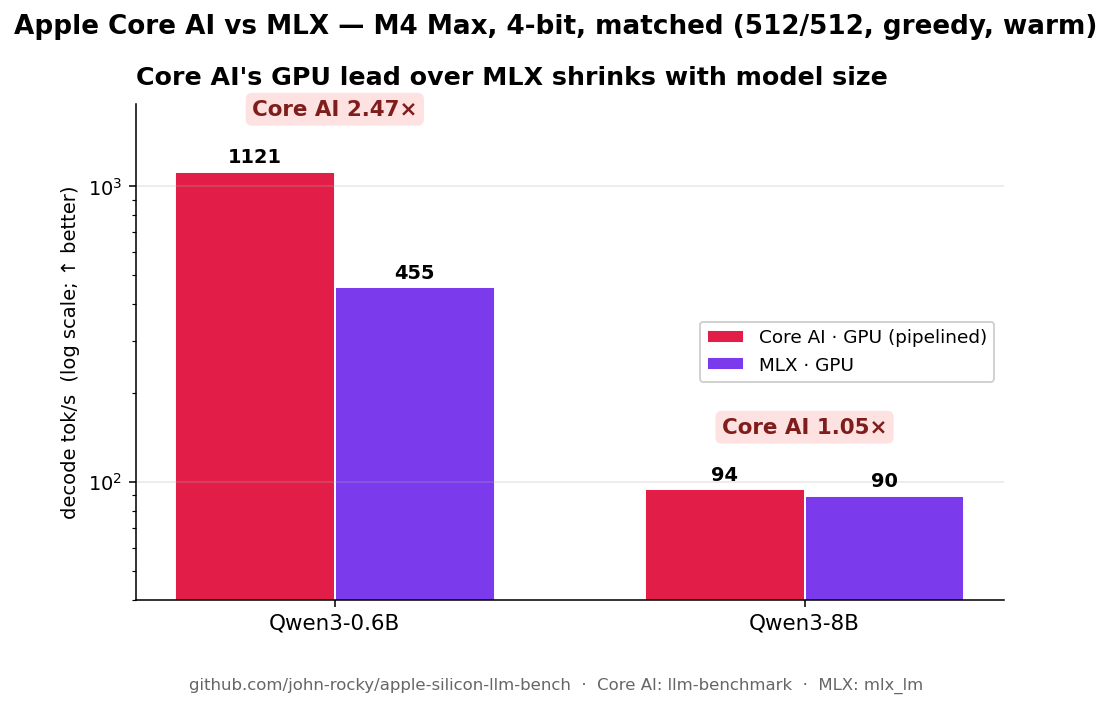
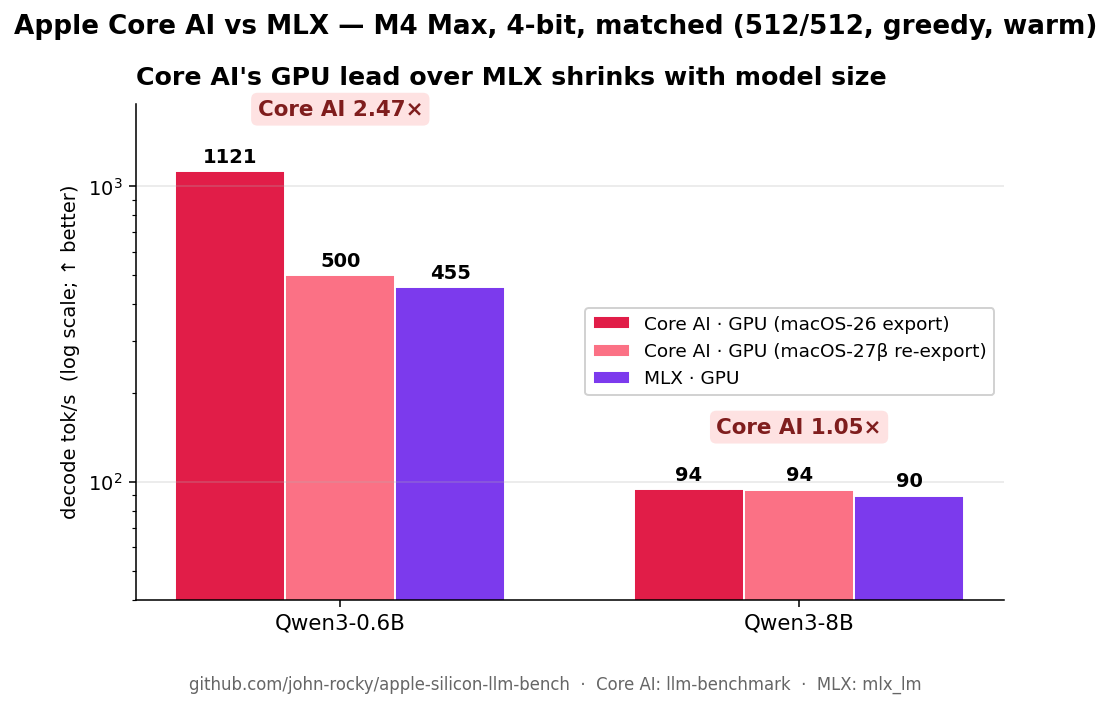
Mac official-recipe matrix: Core AI vs MLX across 6 models + export-lowering forensics
- Full M4 Max matrix (gpt-oss-20b MoE, qwen3 0.6/4/8B, gemma3-4b, mistral-7b):
  Core AI >= MLX on every dense model (+4-12% decode), MLX wins only the MoE (+28%).
- Export-lowering sensitivity: the same coreai.llm.export recipe produces a 2.2x
  slower qwen3-0.6b artifact after the macOS 26->27beta boundary (native quantized
  Linear -> constexpr dequant; same code/wheels/command). methodology/ doc + raw logs.
- README scaling section + chart updated to show both artifact generations.
- results/raw/2026-06-11-m4max-coreai-matrix/: llm-benchmark JSONs, MLX sweep log,
  ENV pins, artifact-generation A/B log.

diff --git a/scripts/coreai_mac_scaling_chart.py b/scripts/coreai_mac_scaling_chart.py
@@ -21,18 +21,22 @@ mpl.rcParams.update({
 })
 
 # Measured on M4 Max, matched (512/512/greedy/warm), 4-bit. decode tok/s.
+# 0.6B carries TWO Core AI bars: the same export recipe lowers differently across
+# the macOS 26 -> 27 beta boundary (methodology/coreai-export-lowering.md).
 SIZES = ["Qwen3-0.6B", "Qwen3-8B"]
-CORE_AI = [1120.8, 94.3]
+CORE_AI = [1120.8, 94.3]          # macOS-26-era artifacts
+CORE_AI_27B = [500.0, 94.1]       # macOS-27β re-exports (8B unchanged)
 MLX = [454.6, 89.7]
 RATIO = [c / m for c, m in zip(CORE_AI, MLX)]
 
-x = np.arange(len(SIZES)); w = 0.34
+x = np.arange(len(SIZES)); w = 0.24
 fig, ax = plt.subplots(figsize=(8.0, 4.6))
-b1 = ax.bar(x - w / 2, CORE_AI, w, label="Core AI · GPU (pipelined)", color="#e11d48", edgecolor="white")
-b2 = ax.bar(x + w / 2, MLX, w, label="MLX · GPU", color="#7c3aed", edgecolor="white")
+b1 = ax.bar(x - w, CORE_AI, w, label="Core AI · GPU (macOS-26 export)", color="#e11d48", edgecolor="white")
+b1b = ax.bar(x, CORE_AI_27B, w, label="Core AI · GPU (macOS-27β re-export)", color="#fb7185", edgecolor="white")
+b2 = ax.bar(x + w, MLX, w, label="MLX · GPU", color="#7c3aed", edgecolor="white")
 ax.set_yscale("log")
 ax.set_ylim(40, 1900)
-for bars in (b1, b2):
+for bars in (b1, b1b, b2):
     for r in bars:
         ax.text(r.get_x() + r.get_width() / 2, r.get_height() * 1.04,
                 f"{r.get_height():.0f}", ha="center", va="bottom", fontsize=10, fontweight="bold")

diff --git a/methodology/coreai-export-lowering.md b/methodology/coreai-export-lowering.md
@@ -1,0 +1,64 @@
+# Core AI export-lowering sensitivity — same recipe, 2.2× different artifact
+
+**TL;DR: `coreai.llm.export qwen3-0.6b` produced a 1,116 tok/s artifact when this
+repo's Mac numbers were first taken, and a ~500 tok/s artifact two days later — same
+command, same registry preset, same source checkout, same wheel versions, same
+machine. The only environment change in between was the macOS 26 → 27 beta upgrade.
+Benchmark the artifact you ship, pin the artifact, and don't assume a re-export
+reproduces it.**
+
+## The discrepancy
+
+Preparing the official-recipe matrix (2026-06-11) we re-exported Qwen3-0.6B and
+measured 484 tok/s (512p/1024g) where this repo had published ~1,121 (=1,150-class)
+for the same recipe. A/B on the same day, same `llm-benchmark` release binary,
+`-p 128 -g 256 -n 3`:
+
+| Artifact | Exported | Decode tok/s | Prefill tok/s |
+|---|---|---:|---:|
+| `qwen3_0_6b_dynamic` (original) | 2026-06-09 (macOS 26) | **1,116** | **17,350** |
+| `qwen3_0_6b_4bit_dynamic` (re-export) | 2026-06-11 (macOS 27 beta) | 500 | 6,667 |
+| re-export, pristine upstream `main` @0c1055f | 2026-06-11 (macOS 27 beta) | 504 | 6,676 |
+
+## What's actually different — the program, not the runtime
+
+Both artifacts run on the *same* runtime in these measurements (macOS 27 beta,
+same `llm-benchmark` binary) — so the runtime didn't regress; the exported
+**program** differs. Op-level evidence (`strings main.mlirb`):
+
+- **Fast artifact**: plain `Linear$N` composites, **zero** quantization ops in the
+  program text, yet 327 MB (4-bit-sized) → 4-bit weights consumed natively by the
+  runtime's Linear kernels (quantized-matmul path).
+- **Slow artifact**: `ParametrizedLinear$N` composites + 141×
+  `constexpr_blockwise_shift_scale` ops → explicit dequantize-then-matmul.
+
+Same 4-bit storage class (327 vs 320 MB); the **compute path** differs 2.2×.
+
+## What we ruled out (all held constant)
+
+- Source code: local checkout `b1cb71b` unchanged (reflog: single clone, no resets);
+  upstream `main` (0c1055f) differs only in `model_registry.py` (cosmetic). A pristine
+  re-clone reproduces the slow artifact.
+- Wheels: `coreai-core 1.0.0b1 / coreai-torch 0.4.0 / torch 2.9.0`, all installed
+  2026-06-09 05:45, untouched since (file mtimes).
+- Command: re-ran the original line verbatim (`uv run coreai.llm.export qwen3-0.6b
+  --platform macOS --output-name …`; `uv run` resolves to the same project venv).
+- Registry preset: `("qwen3-0.6b", …, "4bit", "float16", 8192)` in both revisions.
+
+Remaining variable: the **OS + Xcode toolchain** (macOS 26 → 27 beta between the two
+exports). The export's optimize/serialize stage runs inside `coreai-core`, which links
+the OS Core AI framework — consistent with the lowering decision living OS-side.
+We can no longer boot the macOS-26 stack to triple-confirm, so this is
+elimination-based, not bisected.
+
+## Consequences for benchmarking (and for shipping)
+
+1. **An `.aimodel` is a build artifact, not a pure function of the recipe.** Treat it
+   like a compiled binary: version-stamp it, keep it, benchmark exactly what ships.
+2. Numbers in this repo now carry the artifact date + OS in
+   [`results/raw/2026-06-11-m4max-coreai-matrix/ENV.md`](../results/raw/2026-06-11-m4max-coreai-matrix/ENV.md).
+3. The effect is size-dependent: at 8B both artifact generations measure ~94 tok/s
+   (bandwidth-bound); at 0.6B the lowering dominates (2.2×). Small-model numbers are
+   the canary.
+4. If you have a macOS-26-era artifact, **keep it** — as of the 27 beta we know no
+   recipe flag that re-produces the native-quantized lowering.

diff --git a/README.md b/README.md
@@ -34,10 +34,34 @@ A neutral, reproducible benchmark for running local LLMs (and, in time, ASR / TT
 
 | Model (4-bit) | Core AI GPU | MLX | Core AI lead |
 |---|---:|---:|---:|
-| Qwen3-0.6B | 1,121 | 455 | **2.47×** |
+| Qwen3-0.6B (macOS-26 export) | 1,121 | 455 | **2.47×** |
+| Qwen3-0.6B (macOS-27β re-export) | ~500 | 455 | **1.1×** |
 | Qwen3-8B | 94 | 90 | **1.05×** |
 
-Core AI's pipelined-GPU lead is large on **tiny** models — where its async-dispatch / overlap dominates — but **converges to a near-tie at a realistic 8B**, where both runtimes become memory-bandwidth-bound. So "Core AI is much faster" is a small-model effect; at usable sizes it's roughly MLX-equal (here, +5%). _(Matched: 512-token prompt, 512 gen, greedy, warm. Core AI via Apple's `llm-benchmark`; MLX via `mlx_lm`.)_
+Core AI's pipelined-GPU lead is large on **tiny** models — where its async-dispatch / overlap dominates — but **converges to a near-tie at a realistic 8B**, where both runtimes become memory-bandwidth-bound. _(Matched: 512-token prompt, 512 gen, greedy, warm. Core AI via Apple's `llm-benchmark`; MLX via `mlx_lm`.)_
+
+> ⚠️ **The 0.6B number is export-generation-dependent.** The same `coreai.llm.export`
+> recipe produces a 2.2× slower artifact after the macOS 27 beta upgrade (native
+> quantized-Linear lowering → explicit dequant ops; same runtime, same code, same
+> wheels). Forensics: [`methodology/coreai-export-lowering.md`](methodology/coreai-export-lowering.md).
+> Benchmark the artifact you ship.
+
+**Full official-recipe matrix (M4 Max, macOS 27β artifacts, `llm-benchmark` defaults 512p/1024g/5):**
+
+| Model | Artifact | Core AI decode (prefill) | MLX 0.31.3 decode (prefill) | Decode verdict |
+|---|---|---:|---:|---|
+| gpt-oss-20b (MoE, MXFP4) | 13 GB | 78.1 (1,252) | **100.2** (1,528) | **MLX +28%** |
+| qwen3-0.6b | 335 MB | **484** (9,396) | 432 (9,366) | **Core AI +12%** |
+| qwen3-4b | 2.1 GB | 145.4 (**1,635**) | 145.8 (1,495) | tie |
+| qwen3-8b | 4.3 GB | **94.1** (912) | 90.0 (825) | **Core AI +5%** |
+| gemma3-4b-it | 2.1 GB | **141.5** (1,669) | 136.3 (1,631) | **Core AI +4%** |
+| mistral-7b-v0.3 | 3.8 GB | **101.7** (976) | 97.5 (918) | **Core AI +4%** |
+
+**Core AI matches or beats MLX on every dense model; MLX's one clear win is the MoE**
+(expert dispatch, not the core engine). gpt-oss-20b bonus: `COREAI_CHUNK_THRESHOLD` is a
+memory dial — unchunked 4096-token prefill hits 1,439 tok/s (+16%) at 18 GB dirty
+footprint, chunk-128 (the `llm-runner` MoE hint) caps memory at 1.7 GB for 766 tok/s.
+Raw logs + env pins: [`results/raw/2026-06-11-m4max-coreai-matrix/`](results/raw/2026-06-11-m4max-coreai-matrix/).
 
 ---
 

diff --git a/RESULTS.md b/RESULTS.md
@@ -152,6 +152,29 @@ Each sub-table fixes the *logical* model (Gemma 4 E2B, Qwen 3.5 2B, …) and var
 |---|---|---|---:|---:|---:|---:|---:|---:|
 | apple-fm | `apple-fm/default` | Apple-quant (~2-4 bit, adapters) | 1 | 0.0 | 687 | 29.1 | 78.2 | 29 |
 
+## Pivot 1.5 — Mac official-recipe matrix (Core AI vs MLX, synthetic 512p/1024g)
+
+Different protocol from the short-chat pivots above: Apple's `llm-benchmark` defaults
+(synthetic 512-token prompt / 1024 generated / 5 trials, greedy) vs `mlx_lm benchmark`
+with identical parameters — the two tools share the same methodology by design.
+M4 Max 128GB, macOS 27β artifacts. Load = warm `llm-runner` "Model Load"; Mem = peak
+RSS (`/usr/bin/time -l`). Raw: [`results/raw/2026-06-11-m4max-coreai-matrix/`](results/raw/2026-06-11-m4max-coreai-matrix/).
+
+| Model | Core AI artifact | CA decode | CA prefill | CA load (s) | CA RSS (GB) | MLX decode | MLX prefill | Verdict |
+|---|---|---:|---:|---:|---:|---:|---:|---|
+| gpt-oss-20b (MoE, MXFP4) | 13 GB | 78.1 | 1,252 | 2.1 | 33.9 | **100.2** | 1,528 | **MLX +28%** |
+| qwen3-0.6b (4-bit) | 335 MB | **484** | 9,396 | 0.10 | 0.77 | 432 | 9,366 | **CA +12%** |
+| qwen3-4b (4-bit) | 2.1 GB | 145.4 | **1,635** | 0.36 | 4.6 | 145.8 | 1,495 | tie |
+| qwen3-8b (4-bit) | 4.3 GB | **94.1** | 912 | 0.64 | 9.3 | 90.0 | 825 | **CA +5%** |
+| gemma3-4b-it (4-bit) | 2.1 GB | **141.5** | 1,669 | 0.32 | 4.5 | 136.3 | 1,631 | **CA +4%** |
+| mistral-7b-v0.3 (4-bit) | 3.8 GB | **101.7** | 976 | 0.56 | 8.3 | 97.5 | 918 | **CA +4%** |
+
+Core AI ≥ MLX on every dense model; MLX's one win is the MoE (expert dispatch).
+Caveats that matter: artifact lowering changed across the macOS 26→27β boundary
+(2.2× on 0.6B — see [`methodology/coreai-export-lowering.md`](methodology/coreai-export-lowering.md));
+gpt-oss `COREAI_CHUNK_THRESHOLD` trades prefill speed vs dirty footprint
+(766 tok/s @1.7 GB ↔ 1,439 tok/s @18 GB on 4096-token prompts).
+
 ## Pivot 2 — by runtime
 
 Each sub-table fixes the runtime and varies the model, so you can see how a single backend scales across model sizes within itself.

diff --git a/results/raw/2026-06-11-m4max-coreai-matrix/ENV.md b/results/raw/2026-06-11-m4max-coreai-matrix/ENV.md
@@ -1,0 +1,20 @@
+# Environment stamp — 2026-06-11 M4 Max official-recipe matrix
+
+## Hardware
+- Apple M4 Max, 128 GB RAM
+- ProductName:		macOS ProductVersion:		27.0 BuildVersion:		26A5353q 
+- Xcode: Xcode 27.0 Build version 27A5194q 
+
+## Stacks
+- coreai-core 1.0.0b1 / coreai-torch 0.4.0 / coreai-opt 0.2.0 / coreai-models 0.1.0 (venv installed 2026-06-09)
+- coreai-models repo: local checkout @ b1cb71b + session patches (see CAVEAT in summary md); upstream main @ 0c1055f at bench time
+- mlx-lm 0.31.3 / mlx 0.31.2 (python 3.14.5)
+- torch 2.9.0
+
+## Protocol
+- Core AI: swift llm-benchmark release build, -p 512 -g 1024 -n 5 (defaults), greedy temp 0
+- MLX: python -m mlx_lm benchmark --model <mlx-community 4bit> -p 512 -g 1024 -n 5
+- Load times: llm-runner 'Model Load' line; memory: /usr/bin/time -l max RSS
+
+## Caveat: export-lowering sensitivity
+All Core AI artifacts in this directory were exported on macOS 27β (2026-06-11). A macOS-26-era artifact of the same qwen3-0.6b recipe decodes 2.2x faster — see methodology/coreai-export-lowering.md and qwen3-0.6b_artifact_generations_p128g256.log.